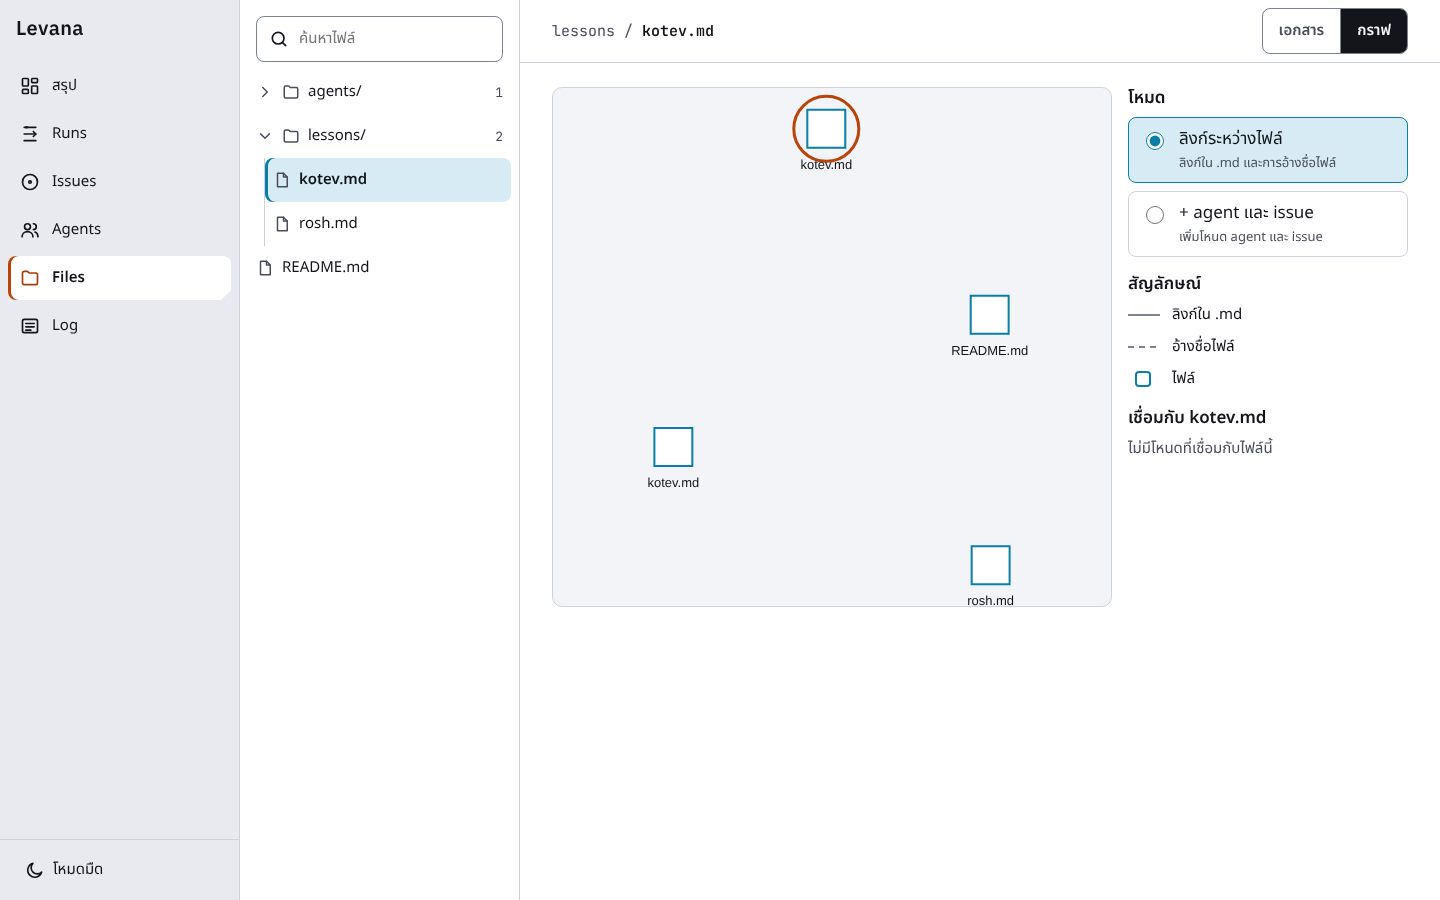
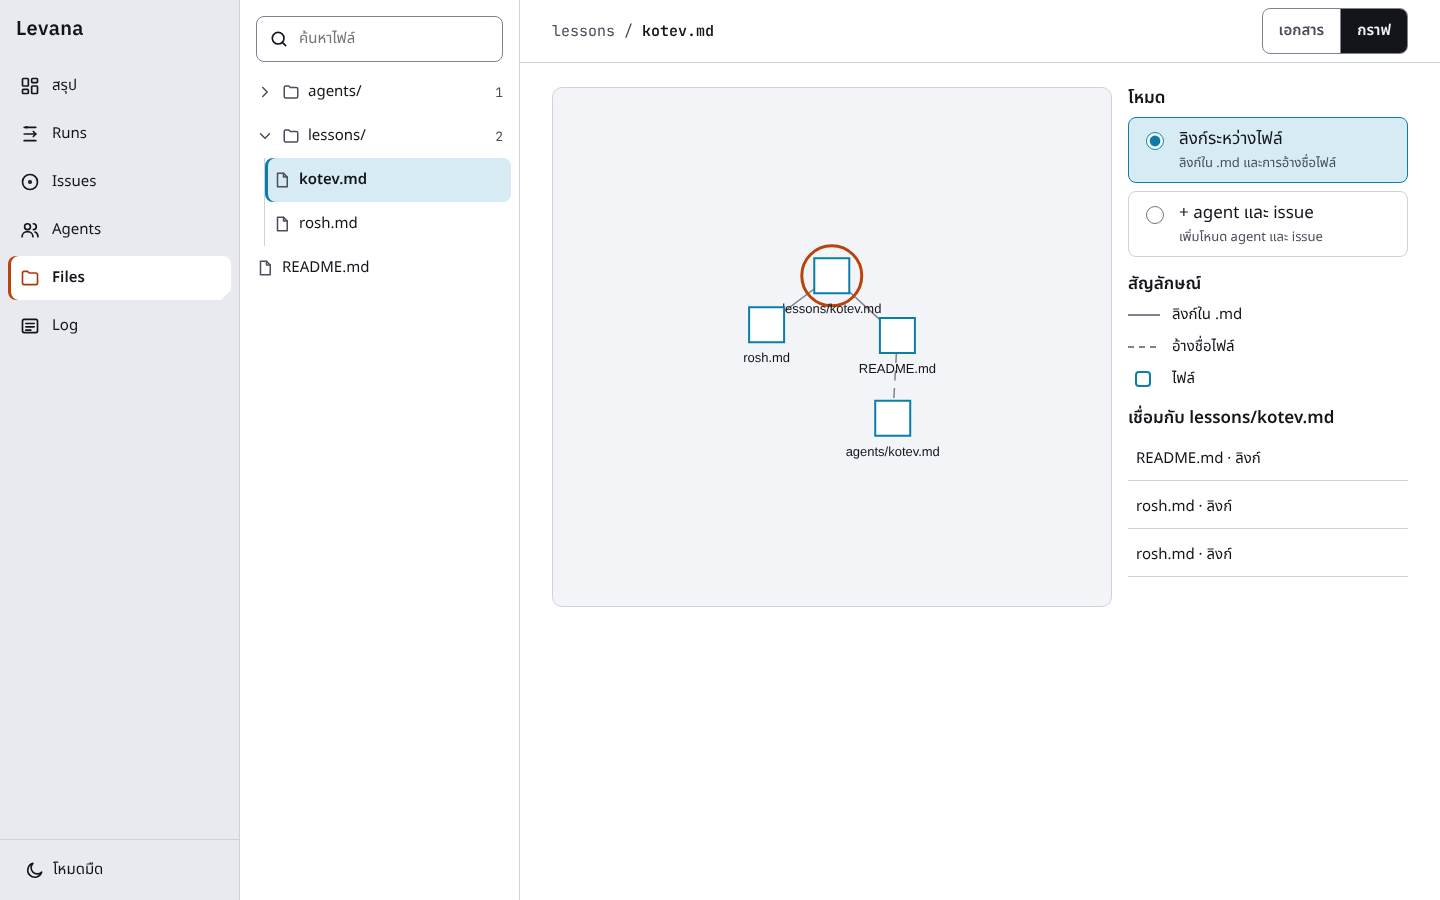
v3 fix round 1: F1-F8, F11, F13 + retaken shots
Log message column width, stale mobile dots, graph labels/edges, h1 focus ring, missing-state bar, export nowrap, runs stat row, logbus token scrub + service_role guard, DESIGN mobile top 3. Harness graphql mock fixed to return repository.

Claude-Session: https://claude.ai/code/session_0165aWqbqUPHjfkLhrNmE87y

diff --git a/views/graph.js b/views/graph.js
@@ -40,7 +40,7 @@ const KeshGraph = (() => {
     const zoom = h("div", { className: "zoom" },
       h("button", { type: "button", "aria-label": "ซูมเข้า", onclick: () => g && g.zoom(g.zoom() * 1.4, 250) }, "+"),
       h("button", { type: "button", "aria-label": "ซูมออก", onclick: () => g && g.zoom(g.zoom() / 1.4, 250) }, "−"),
-      h("button", { type: "button", "aria-label": "พอดีจอ", style: "font-size:15px", onclick: () => g && g.zoomToFit(300, 30) }, "fit"));
+      h("button", { type: "button", "aria-label": "พอดีจอ", style: "font-size:15px", onclick: () => { if (!g) return; g.zoomToFit(300, 60); setTimeout(() => { if (g.zoom() > 2.5) g.zoom(2.5, 150); }, 360); } }, "fit"));
     const panel = h("div", { className: "gpanel" });
     host.replaceChildren(h("div", { className: "gwrap", id: "graphView" }, h("div", { style: "display:grid;gap:8px" }, can, capped ? h("p", { className: "sub" }, "แสดง 400 ไฟล์แรกเท่านั้น") : null), panel));
     can.append(zoom);
@@ -49,21 +49,35 @@ const KeshGraph = (() => {
       const w = can.clientWidth || 600, hgt = can.clientHeight || 420;
       if (g) { g._destructor && g._destructor(); can.querySelectorAll("canvas,div.force-graph-container").forEach((x) => x.remove()); }
       const ink = css("--ink"), surface = css("--surface"), data_ = css("--data"), act = css("--act"), line = css("--line-strong"), onAgent = css("--on-agent");
+      const shownLabels = new Set();
+      let hover = null;
       const nodeObj = (n, ctx, k) => {
-        const fs = Math.max(13 / k, 4), r = 7;
+        const fs = 13 / k, r = 7;
         ctx.lineWidth = 2 / k;
         if (n.id === sel) { ctx.strokeStyle = act; ctx.lineWidth = 3 / k; ctx.beginPath(); ctx.arc(n.x, n.y, r + 5, 0, 2 * Math.PI); ctx.stroke(); ctx.lineWidth = 2 / k; }
         if (n.kind === "agent") { ctx.fillStyle = agentColor(n.agent); ctx.beginPath(); ctx.arc(n.x, n.y, r + 2, 0, 2 * Math.PI); ctx.fill(); ctx.fillStyle = onAgent; ctx.font = "600 " + fs + "px sans-serif"; ctx.textAlign = "center"; ctx.textBaseline = "middle"; ctx.fillText(n.label[0], n.x, n.y); }
         else if (n.kind === "issue") { ctx.fillStyle = surface; ctx.strokeStyle = ink; ctx.beginPath(); ctx.moveTo(n.x, n.y - r - 3); ctx.lineTo(n.x + r + 3, n.y); ctx.lineTo(n.x, n.y + r + 3); ctx.lineTo(n.x - r - 3, n.y); ctx.closePath(); ctx.fill(); ctx.stroke(); }
         else { ctx.fillStyle = surface; ctx.strokeStyle = data_; ctx.beginPath(); ctx.rect(n.x - r, n.y - r, 2 * r, 2 * r); ctx.fill(); ctx.stroke(); }
+        if (!shownLabels.has(n.id)) return;
         ctx.fillStyle = ink; ctx.font = fs + "px sans-serif"; ctx.textAlign = "center"; ctx.textBaseline = "top";
         ctx.fillText(n.label, n.x, n.y + r + 4);
       };
+      const pickLabels = (ctx, k) => {
+        shownLabels.clear();
+        const fs = 13 / k, boxes = [];
+        ctx.font = fs + "px sans-serif";
+        const rank = (n) => n.id === sel ? 0 : n.id === hover ? 1 : n.kind === "file" ? 2 : n.kind === "agent" ? 3 : 4;
+        [...data.nodes].filter((n) => n.x != null).sort((a, b) => rank(a) - rank(b)).forEach((n) => {
+          const wd = ctx.measureText(n.label).width + 4 / k, x0 = n.x - wd / 2, y0 = n.y + 11, y1 = y0 + fs + 2 / k;
+          const hit = boxes.some((b) => x0 < b[2] && x0 + wd > b[0] && y0 < b[3] && y1 > b[1]);
+          if (!hit || rank(n) < 2) { shownLabels.add(n.id); boxes.push([x0, y0, x0 + wd, y1]); }
+        });
+      };
       g = FG()(can).width(w).height(hgt).graphData(data).nodeId("id").backgroundColor("rgba(0,0,0,0)")
-        .nodeCanvasObject(nodeObj).nodePointerAreaPaint((n, color, ctx) => { ctx.fillStyle = color; ctx.beginPath(); ctx.arc(n.x, n.y, 12, 0, 2 * Math.PI); ctx.fill(); })
+        .onRenderFramePre(pickLabels).onNodeHover((n) => { hover = n ? n.id : null; can.style.cursor = n ? "pointer" : ""; }).nodeCanvasObject(nodeObj).nodePointerAreaPaint((n, color, ctx) => { ctx.fillStyle = color; ctx.beginPath(); ctx.arc(n.x, n.y, 12, 0, 2 * Math.PI); ctx.fill(); })
         .linkColor(() => line).linkWidth((l) => l.kind === "relation" ? 1 : 1.5).linkLineDash((l) => l.kind === "mention" ? [4, 3] : l.kind === "relation" ? [1, 3] : null)
         .warmupTicks(reduce ? 100 : 0).cooldownTicks(reduce ? 0 : 120).onNodeClick((n) => { location.hash = hashFor(n); })
-        .onEngineStop(() => { if (!can.dataset.fit) { can.dataset.fit = "1"; g.zoomToFit(200, 30); } });
+        .onEngineStop(() => { if (!can.dataset.fit) { can.dataset.fit = "1"; g.zoomToFit(200, 60); setTimeout(() => { if (g.zoom() > 2.5) g.zoom(2.5, 150); }, 260); } });
       if (reduce) setTimeout(() => g.zoomToFit(0, 30), 0);
       KeshApp.ev("info", "graph_open", "เปิดกราฟ", { mode: m, nodes: data.nodes.length, links: data.links.length });
     };

diff --git a/views/summary.js b/views/summary.js
@@ -21,7 +21,7 @@ KeshViews.summary = (() => {
     let body;
     if (st.state === "missing") {
       body = [h("div", { className: "umiss" }, ring(0, "missing", "ยังไม่มีค่า usage"), h("div", { className: "ufacts", style: "flex:1 1 220px" }, h("p", h("b", "ยังไม่มีค่า 5 ชั่วโมง")), h("p", { className: "sub" }, "ไม่พบ usage.json หรือไม่มี rate_limits (ต้องเป็นแผน Pro/Max และส่งข้อความใน Claude Code อย่างน้อย 1 ครั้ง)"))),
-        h("div", { className: "dmain" }, h("b", "—"), h("span", { className: "sub" }, "ยังไม่มีค่า")), dots(0, "missing", "ไม่มีข้อมูล")];
+        dots(0, "missing", "ไม่มีข้อมูล")];
     } else {
       const stale = st.state === "stale", pct = Math.round(st.pct);
       const when = st.capturedAt != null ? L.hhmm(st.capturedAt) : "—";
@@ -30,7 +30,7 @@ KeshViews.summary = (() => {
           h("div", h("dt", st.resetPassed ? "รอบนี้รีเซ็ตแล้วตอน" : "รีเซ็ต"), h("dd", st.resetsAt != null ? L.hhmm(st.resetsAt) : "—", st.resetPassed ? h("small", " ค่าใหม่ยังไม่เข้า") : null)))
         : h("dl", { className: "ufacts" }, h("div", h("dt", "รีเซ็ต"), h("dd", st.resetsAt != null ? [L.hhmm(st.resetsAt) + " ", h("small", "อีก " + L.fmtDur(st.resetsAt - now))] : "—")),
           h("div", h("dt", "ณ"), h("dd", [when + " ", h("small", "(" + L.ageText(now - st.capturedAt) + ")")])));
-      body = [h("div", { className: "dmain" }, h("b", pct + "%"), stale ? chip("warn", "ข้อมูลเก่า", "clock") : h("span", { className: "sub" }, "ใช้แล้ว")),
+      body = [h("div", { className: "dmain" + (stale ? " stale" : "") }, h("b", pct + "%"), stale ? chip("warn", "ข้อมูลเก่า", "clock") : h("span", { className: "sub" }, "ใช้แล้ว")),
         h("div", { className: "ubody" }, ring(st.pct, stale ? "stale" : "live", (stale ? "ข้อมูลเก่า " : "ใช้ไปแล้ว ") + pct + "% ของ 5 ชั่วโมง"), dots(st.pct, st.state, pct + "% ของ 5 ชั่วโมง"), facts)];
     }
     return [h("h2", { id: "h-usage" }, "USAGE"), body, foot];

diff --git a/style.css b/style.css
@@ -167,6 +167,8 @@ html.shot .tree,html.shot .dbar{position:static!important;height:auto!important;
 .dots{display:none;grid-template-columns:repeat(10,1fr);gap:var(--s2);width:100%}
 .dots i{aspect-ratio:1;max-width:28px;border-radius:50%;border:2px solid var(--line-strong)}
 .dots i.f{background:var(--data);border-color:var(--data)}
+.dots.stale i.f{background:var(--line-strong);border-color:var(--line-strong)}
+.dmain.stale b{color:var(--ink-2)}
 .dmain{display:none;width:100%;align-items:baseline;gap:var(--s3);margin-bottom:var(--s3)}
 .dmain b{font:600 var(--t-hero)/1.1 var(--font-disp)}
 @media (max-width:599px){.ring{display:none}.dots,.dmain{display:grid}.dmain{display:flex}}
@@ -238,6 +240,8 @@ td .tags{display:flex;gap:6px;flex-wrap:wrap}
   table.stack,table.stack tbody,table.stack tr,table.stack td{display:block}
   table.stack tr{padding:var(--s3) 0;border-bottom:1px solid var(--line)}
   table.stack td{border:0;padding:2px var(--s2)}
+  table.stack td.n{text-align:left}
+  table.stack td[data-l]{display:inline-block;margin-right:var(--s3)}
   table.stack td[data-l]::before{content:attr(data-l) " ";color:var(--ink-2);font-size:var(--t-meta)}
   table.stack tbody tr:hover td{background:none}
 }
@@ -313,7 +317,8 @@ td .tags{display:flex;gap:6px;flex-wrap:wrap}
 tr.jr td{background:var(--sunken)!important;padding:var(--s3) var(--s4)}
 tr.jr pre{margin:0;font:400 13px/1.6 var(--font-mono);overflow-x:auto;white-space:pre-wrap}
 tr.jr[hidden]{display:none}
-.lmsg{max-width:44ch}table.log td.mono,table.log td.e,table.log .lv{white-space:nowrap}table.log td.dv{min-width:150px}
+.lmsg{min-width:32ch;max-width:60ch}table.log td.mono,table.log .lv{white-space:nowrap}table.log td.e{min-width:14ch;overflow-wrap:anywhere}table.log td.rt{white-space:normal;width:150px;max-width:150px;overflow-wrap:anywhere;word-break:break-all}table.log td.dv{min-width:150px}
+@media (min-width:600px) and (max-width:1599px){table.log th:nth-child(6),table.log td.tz{display:none}}
 @media (max-width:599px){
   table.log thead{display:none}
   table.log,table.log tbody,table.log tr,table.log td{display:block}
@@ -389,3 +394,6 @@ main .sec:first-of-type{margin-top:var(--s8)}
 @media (max-width:1023px){.page.wide .dbar{top:var(--head-h)}}
 .dbar .btn.tr{margin-left:auto}
 .dpane .empty{padding-top:var(--s8)}
+
+h1[tabindex="-1"]{outline:0}
+.ph .right .btn{white-space:nowrap}

diff --git a/logbus.js b/logbus.js
@@ -2,14 +2,21 @@ const KeshLog = (() => {
   const G = typeof window !== "undefined" ? window : globalThis;
   const QK = "levana_logq", LK = "levana_log_local", AK = "levana_log_auth", Q_CAP = 500, LOCAL_CAP = 1000, BATCH = 50, LEVELS = ["debug", "info", "warn", "error"];
   const cfg = () => G.LEVANA_CFG || {};
-  const configured = () => !!(cfg().supabaseUrl && cfg().supabaseKey);
+  // A service_role key bypasses RLS and must never ship to a browser: treat it as not configured.
+  const isServiceKey = (k) => {
+    if (/^sb_secret_/.test(k)) return true;
+    const p = /^eyJ[\w-]*\.([\w-]+)\./.exec(k);
+    if (!p) return false;
+    try { const b = p[1].replace(/-/g, "+").replace(/_/g, "/"); return JSON.parse(atob(b + "=".repeat((4 - b.length % 4) % 4))).role === "service_role"; } catch (e) { return false; }
+  };
+  const configured = () => !!(cfg().supabaseUrl && cfg().supabaseKey) && !isServiceKey(String(cfg().supabaseKey));
   const pad = (n, l) => String(n).padStart(l || 2, "0");
   const isoOffset = (d) => {
     const o = -d.getTimezoneOffset(), a = Math.abs(o);
     return d.getFullYear() + "-" + pad(d.getMonth() + 1) + "-" + pad(d.getDate()) + "T" + pad(d.getHours()) + ":" + pad(d.getMinutes()) + ":" + pad(d.getSeconds()) + "." + pad(d.getMilliseconds(), 3) + (o >= 0 ? "+" : "-") + pad(Math.floor(a / 60)) + ":" + pad(a % 60);
   };
   const sid = Math.random().toString(36).slice(2, 12);
-  const scrub = (v) => typeof v === "string" ? v.replace(/(ghp_|github_pat_|sb_secret_)[A-Za-z0-9_]+/g, "[redacted]") : v;
+  const scrub = (v) => typeof v === "string" ? v.replace(/(ghp_|gho_|ghs_|ghu_|github_pat_|sb_secret_)[A-Za-z0-9_]+/g, "[redacted]") : v;
   const scrubDeep = (v, d = 0) => d > 4 ? null : Array.isArray(v) ? v.map((x) => scrubDeep(x, d + 1)) : v && typeof v === "object" ? Object.fromEntries(Object.entries(v).filter(([k]) => !/token|authorization|secret|password|apikey/i.test(k)).map(([k, x]) => [k, scrubDeep(x, d + 1)])) : scrub(v);
   const device = () => {
     const n = typeof navigator !== "undefined" ? navigator : {}, u = n.userAgentData;

diff --git a/e2e/smoke.js b/e2e/smoke.js
@@ -73,14 +73,23 @@ const noTr = () => { try { delete self.Translator; } catch (e) {} };
       await page.click(".xbtn").catch(() => {});
       await shot(page, "log-expanded-1440-light");
     });
-    await session(390, "light", { gql: "ok", usage: "live" }, async (page) => {
-      await go(page, "#/menu-shot".replace("menu-shot", "files/lessons/kotev.md"));
-      await page.click("#treeBtn");
-      await shot(page, "tree-sheet-390-light");
-      await page.keyboard.press("Escape");
-      await page.click("#menuBtn");
-      await shot(page, "drawer-390-light");
-    });
+    const vshot = (page, tag) => page.screenshot({ path: path.join(OUT, tag + ".png") });
+    const settled = (page, sel) => page.waitForFunction((q) => { const e = document.querySelector(q); return e && getComputedStyle(e).visibility === "visible" && e.getAnimations().length === 0; }, sel, { timeout: 4000 }).then(() => page.waitForTimeout(400));
+    for (const mode of ["light", "dark"]) {
+      await session(390, mode, { gql: "ok", usage: "live" }, async (page) => {
+        await go(page, "#/files/lessons/kotev.md");
+        if (mode === "light") {
+          await page.click("#treeBtn");
+          await settled(page, ".tree.open");
+          await vshot(page, "tree-sheet-390-light");
+          await page.keyboard.press("Escape");
+          await page.waitForTimeout(400);
+        }
+        await page.click("#menuBtn");
+        await settled(page, ".side.open");
+        await vshot(page, "drawer-390-" + mode);
+      });
+    }
   }
   await browser.close(); server.close();
   console.log(fails.length ? "FAIL\n" + fails.join("\n") : "ALL OK");

diff --git a/test/logbus.test.js b/test/logbus.test.js
@@ -60,6 +60,31 @@ test("unconfigured: log stays local only, queue empty, flush is a no-op", async 
   assert.equal(K.configured(), false);
 });
 
+test("scrubs gho_/ghs_/ghu_ tokens", () => {
+  clear();
+  globalThis.LEVANA_CFG = { supabaseUrl: "", supabaseKey: "" };
+  K.log("info", "t", "a gho_abc123 b ghs_def456 c ghu_ghi789", { x: "ghu_zzz" });
+  const r = K.readLocal()[0];
+  assert.equal(r.message, "a [redacted] b [redacted] c [redacted]");
+  assert.equal(r.detail.x, "[redacted]");
+});
+
+test("refuses a service_role key (JWT or sb_secret_)", async () => {
+  clear();
+  const jwt = (role) => "eyJhbGciOiJIUzI1NiJ9." + Buffer.from(JSON.stringify({ role })).toString("base64url") + ".sig";
+  let calls = 0;
+  globalThis.fetch = async () => { calls++; return { status: 201 }; };
+  globalThis.LEVANA_CFG = { supabaseUrl: "https://x.supabase.co", supabaseKey: jwt("service_role") };
+  assert.equal(K.configured(), false);
+  globalThis.LEVANA_CFG = { supabaseUrl: "https://x.supabase.co", supabaseKey: "sb_secret_abc" };
+  assert.equal(K.configured(), false);
+  K.log("info", "e", "m");
+  await K.flush();
+  assert.equal(calls, 0);
+  globalThis.LEVANA_CFG = { supabaseUrl: "https://x.supabase.co", supabaseKey: jwt("anon") };
+  assert.equal(K.configured(), true);
+});
+
 test("configured: flush posts batches with headers; 4xx drops + logs locally; 5xx keeps", async () => {
   clear();
   globalThis.LEVANA_CFG = { supabaseUrl: "https://x.supabase.co", supabaseKey: "sb_publishable_abc" };

diff --git a/e2e/fixtures.js b/e2e/fixtures.js
@@ -42,7 +42,7 @@ const data = () => ({
     ref: { target: { history: { nodes: [{ oid: "1a4e9f3aaaaaaa", message: "init", author: { name: "Rin", date: ago(0) + "T01:00:00Z" } }] } } },
     runs: tree(Object.entries(RUNS()).map(([k, v]) => [k, v])),
     agents: tree(AGENTS.map((a) => [a, `---\nname: ${a}\ndescription: "${a} agent"\ntools: Read, Grep\nmodel: sonnet\n---\n\nbody`])),
-    lessons: tree(AGENTS.slice(0, 6).map((a, i) => [a, "# lessons\n\n" + Array.from({ length: 3 + i * 2 }, (_, j) => `- 2026-10-2${j % 9} ${a} ใช้ grep แทน find ได้ผล (run ${j})`).join("\n")])),
+    lessons: tree(AGENTS.slice(0, 6).map((a, i) => [a, "# lessons\n\n" + Array.from({ length: 3 + i * 2 }, (_, j) => `- 2026-10-2${j % 9} ${a} ใช้ grep แทน find ได้ผล (run ${j})`).join("\n") + (a === "kotev" ? "\n- ดู [rosh](rosh.md) และ agents/bochek.md" : a === "rosh" ? "\n- ดู [kotev](kotev.md)" : "")])),
     issues: { nodes: [issue(41, "หน้า Files โหลดช้าบนมือถือ", "OPEN", ago(2)), issue(40, "เพิ่ม search lessons", "OPEN", ago(5)), issue(39, "log ต้องอ่านย้อนหลังได้", "OPEN", ago(6)), issue(38, "parser รับ Handoff เอกพจน์", "OPEN", ago(7)), issue(37, "dark mode contrast", "OPEN", ago(8)), issue(36, "statusline usage", "OPEN", ago(9)), issue(30, "แก้ token form", "CLOSED", ago(9))] }
   }
 });

diff --git a/logic.js b/logic.js
@@ -140,7 +140,7 @@ query($owner: String!, $name: String!, $ref: String!, $runs: String!, $agents: S
     const list = (files || []).filter((f) => /\.md$/i.test(f.path));
     const paths = new Set(list.map((f) => f.path)), byBase = {};
     for (const f of list) (byBase[f.path.split("/").pop()] || (byBase[f.path.split("/").pop()] = [])).push(f.path);
-    const nodes = list.map((f) => ({ id: "f:" + f.path, kind: "file", label: f.path.split("/").pop(), path: f.path }));
+    const nodes = list.map((f) => { const b = f.path.split("/").pop(), d = f.path.split("/").slice(-2, -1)[0]; return { id: "f:" + f.path, kind: "file", label: byBase[b].length > 1 && d ? d + "/" + b : b, path: f.path }; });
     const links = [], seen = new Set();
     const add = (source, target, kind) => { if (source === target) return; const k = source + "|" + target + "|" + kind; if (seen.has(k)) return; seen.add(k); links.push({ source, target, kind }); };
     const B = mode === "b";

diff --git a/e2e/harness.js b/e2e/harness.js
@@ -33,7 +33,7 @@ const routes = async (ctx, state, sb) => {
       if (state.gql === "401") return send(401, { message: "Bad credentials" });
       if (state.gql === "502") return send(502, {});
       const aliases = (body.query || "").match(/f\d+: object\(expression: "[^"]+"\)/g);
-      if (aliases) return send(200, { data: Object.fromEntries(aliases.map((a) => { const m = /(f\d+): object\(expression: "[^:]*:([^"]+)"\)/.exec(a); return [m[1], { text: MD[m[2]] || "" }]; })) });
+      if (aliases) return send(200, { data: { repository: Object.fromEntries(aliases.map((a) => { const m = /(f\d+): object\(expression: "[^:]*:([^"]+)"\)/.exec(a); return [m[1], { text: MD[m[2]] || "" }]; })) } });
       return send(200, { data: state.gql === "empty" ? F.empty() : F.data() });
     }
     if (u.endsWith("/rate_limit")) return state.gql === "401" ? send(401, { message: "Bad credentials" }) : send(200, {});

diff --git a/ui.js b/ui.js
@@ -44,7 +44,7 @@ const KeshUI = (() => {
   };
   const dots = (pct, state, label) => {
     const n = state === "missing" ? 0 : Math.round((Number(pct) || 0) / 5);
-    return h("div", { className: "dots", role: "img", "aria-label": label }, Array.from({ length: 20 }, (_, i) => h("i", { className: i < n ? "f" : null })));
+    return h("div", { className: "dots" + (state === "stale" ? " stale" : ""), role: "img", "aria-label": label }, Array.from({ length: 20 }, (_, i) => h("i", { className: i < n ? "f" : null })));
   };
   const dl = (items) => h("dl", { className: "kpis" }, items.map((x) => h("div", h("dt", x.dt), h("dd", { className: "v" + (x.cls ? " " + x.cls : "") }, x.v), x.c ? h("dd", { className: "c" }, x.c) : null)));
   const table = (cols, rows, o = {}) => h("table", { className: o.cls || null, id: o.id || null },

diff --git a/test/graph.test.js b/test/graph.test.js
@@ -46,3 +46,8 @@ test("dedupe and no self links", () => {
   const g = L.buildGraph([{ path: "a.md", text: "[a](a.md) [b](b.md) [b](b.md) a.md" }, { path: "b.md", text: "" }], [], [], "a");
   assert.equal(g.links.length, 1);
 });
+
+test("duplicate basenames get folder-prefixed labels, ids stay path-unique", () => {
+  const g = L.buildGraph([{ path: "lessons/kotev.md", text: "" }, { path: "agents/kotev.md", text: "" }, { path: "README.md", text: "" }], [], [], "a");
+  assert.deepEqual(g.nodes.map((n) => [n.id, n.label]), [["f:lessons/kotev.md", "lessons/kotev.md"], ["f:agents/kotev.md", "agents/kotev.md"], ["f:README.md", "README.md"]]);
+});

diff --git a/design/v3/DESIGN.md b/design/v3/DESIGN.md
@@ -17,7 +17,7 @@ Pages have only an H1 row (title left; freshness + 44px refresh right). Sections
 **Summary** (order fixed): USAGE | 7-day KPI side by side at >=1024 (6fr/5fr), stacked on mobile; GIT ISSUE; TOKEN ต่อ AGENT.
 - USAGE: ring 168px, `%` 56px in centre, from `rate_limits.five_hour.used_percentage`. Beside it: `รีเซ็ต 14:26 (อีก 1 ชม. 28 น.)` from `resets_at`, and `ณ 12:58` (captured_at). <600px: 20-dot matrix (1 dot = 5%, filled = round(%/5)) + 56px number; ring hidden. No legend, no conversion, no reserve. Footer row: Token API chip (icon + word) + `ตรวจใหม่` + `get token` (external icon, `target=_blank rel="noopener noreferrer"`, sr text "เปิดแท็บใหม่"). `get token` turns primary (orange) when token is expired.
 - KPI (no tiles, 2x2 with hairlines): tokens per handoff + delta vs previous 7d (icon + sign + figure); bounce count "14 จาก 114" + % + worst agent n/m (red only if >20%); runs done / open; lessons added 7d.
-- GIT ISSUE: top 5 open. Row = state icon + `#n` + title (600), 2-line excerpt (line-clamp, Thai wraps), label chips (dot + word), right meta: age, comment count, assignee (wraps under on mobile). Whole row is a link. "ดู issue ทั้งหมด (n)" below.
+- GIT ISSUE: desktop shows top 5 open, mobile (<600) shows top 3. Row = state icon + `#n` + title (600), 2-line excerpt (line-clamp, Thai wraps), label chips (dot + word), right meta: age, comment count, assignee (wraps under on mobile). Whole row is a link. "ดู issue ทั้งหมด (n)" below.
 - Agent table: sorted by tokens; columns agent (swatch + name), tokens, handoffs, tokens/handoff, share, bounce n/m. Only bounce >20% highlighted (red + warning icon + %). Mobile: handoffs, share and tokens/handoff columns drop (tokens/handoff moves into the name cell), first 5 rows + "แสดงทั้ง 10 agent".
 - Token-expired notice: conditional banner (state=error). No QUEUE, no BRIEF, no RUN cell.
 
